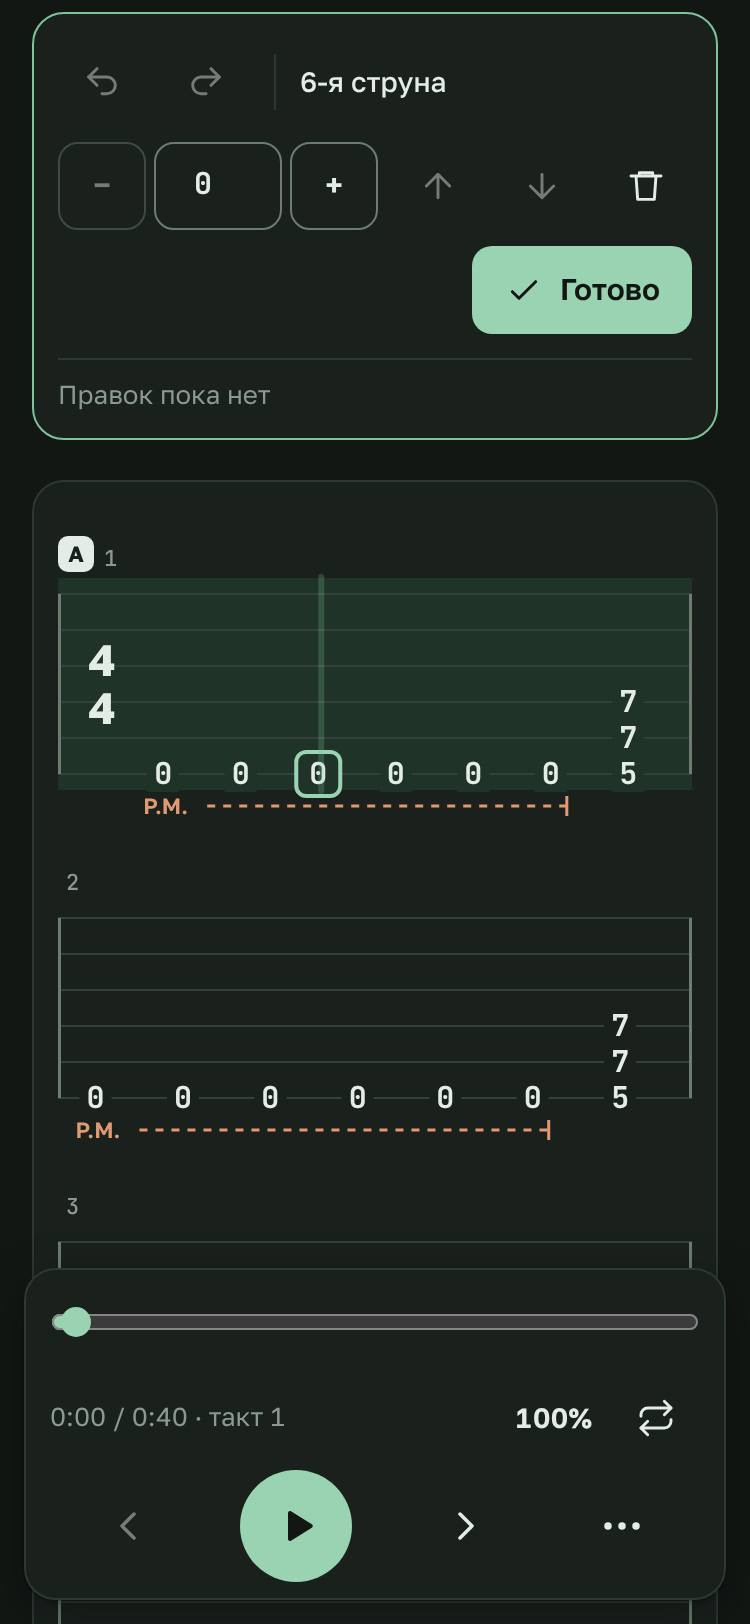
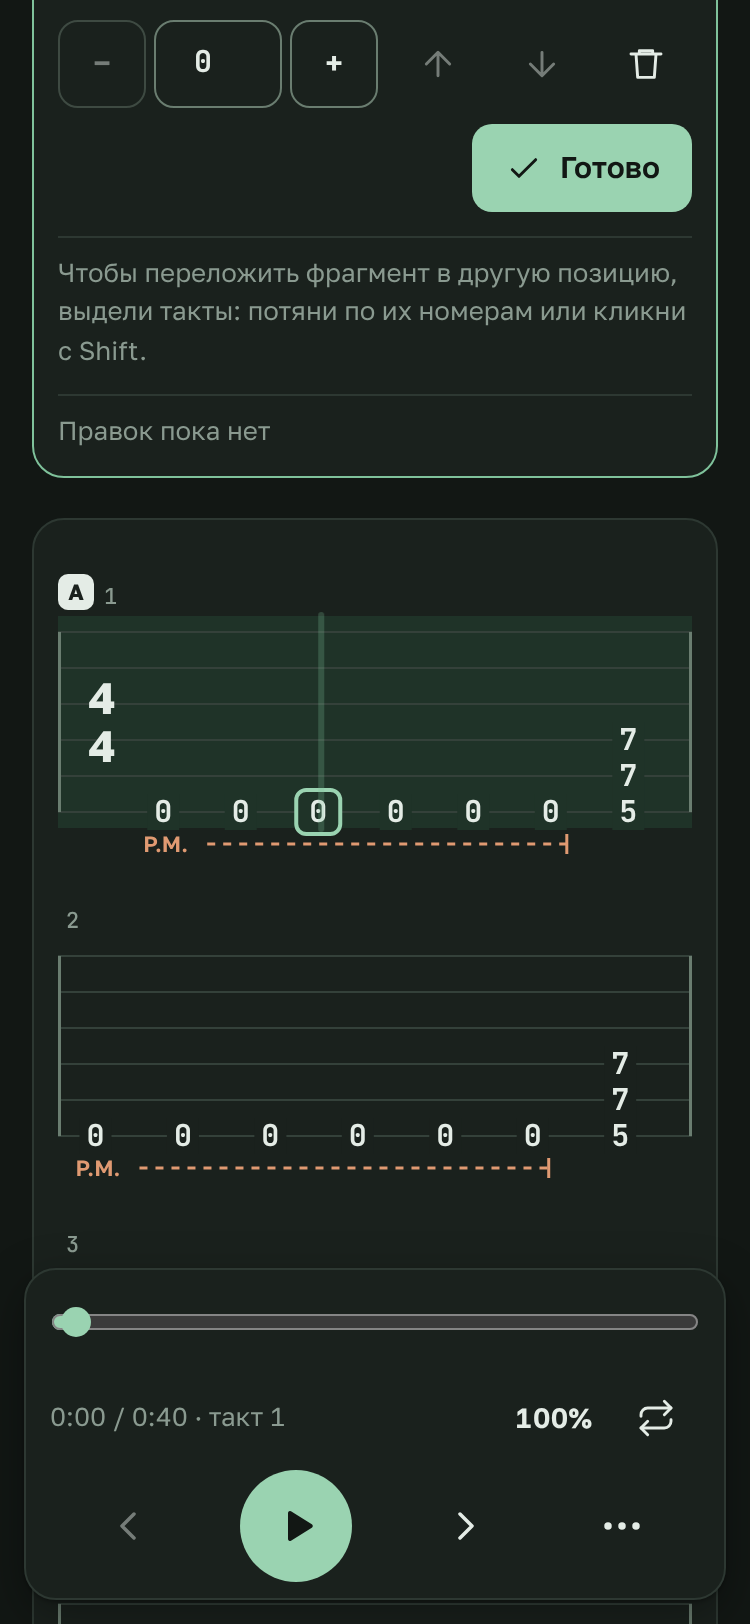
Editor: re-finger selected bars to a position; open-strings setting
- Edit toolbar: with bars selected (drag over bar numbers or
  Shift+click — now also in edit mode), «Такты N–M: переложить в
  позицию [5] Переложить» sends the bars' notes to /refinger and
  commits the result as one edit (autosaved, undoable with Ctrl+Z)
- Settings: «Открытые струны: Когда удобнее / Играть в позиции» with an
  explanation (A as 5-x-7-6-5 vs x-0-2-2-2-0); types.ts openStrings,
  client.refingerEvents
- Test: select a bar, re-finger to 7, autosave, undo; README

Claude-Session: https://claude.ai/code/session_01VXTWEvXddPh27pwJsDT9Na

diff --git a/frontend/src/components/EditToolbar.tsx b/frontend/src/components/EditToolbar.tsx
@@ -23,6 +23,10 @@ interface Props {
   onDelete: () => void;
   onRevert: () => void;
   onDone: () => void;
+  /** Bars selected on the sheet (drag over bar numbers / Shift+click), 1-based label like "80–81". */
+  selectionLabel: string | null;
+  onRefinger: (position: number) => void;
+  refingering: boolean;
 }
 
 /** Number of the string as guitarists count: 1 = the thinnest (highest). */
@@ -61,6 +65,8 @@ export default function EditToolbar(props: Props) {
   const { note } = props;
   const fretId = useId();
   const [confirmRevert, setConfirmRevert] = useState(false);
+  const [position, setPosition] = useState(5);
+  const positionId = useId();
 
   return (
     <div role="toolbar" aria-label="Правка табулатуры" className="grid gap-3 rounded-lg border border-accent bg-surface p-3 sm:p-4">
@@ -121,6 +127,47 @@ export default function EditToolbar(props: Props) {
             Готово
           </Button>
         </span>
+      </div>
+
+      <div className="flex flex-wrap items-center gap-2 border-t border-line pt-2">
+        {props.selectionLabel ? (
+          <>
+            <span className="text-sm font-medium">
+              {props.selectionLabel.includes("–") ? "Такты" : "Такт"} {props.selectionLabel}: переложить в позицию
+            </span>
+            <div className="flex items-center gap-1">
+              <Button variant="secondary" className="w-11 px-0" aria-label="Позиция ниже" onClick={() => setPosition((p) => Math.max(1, p - 1))} disabled={position <= 1}>
+                −
+              </Button>
+              <label htmlFor={positionId} className="sr-only">
+                Лад позиции
+              </label>
+              <input
+                id={positionId}
+                type="number"
+                inputMode="numeric"
+                min={1}
+                max={17}
+                value={position}
+                onChange={(e) => {
+                  const v = Number(e.target.value);
+                  if (Number.isInteger(v)) setPosition(Math.max(1, Math.min(17, v)));
+                }}
+                className="tabular min-h-11 w-16 rounded-md border border-line-strong bg-surface px-2 text-center font-mono text-[15px] font-bold text-fg"
+              />
+              <Button variant="secondary" className="w-11 px-0" aria-label="Позиция выше" onClick={() => setPosition((p) => Math.min(17, p + 1))} disabled={position >= 17}>
+                +
+              </Button>
+            </div>
+            <Button variant="secondary" loading={props.refingering} onClick={() => props.onRefinger(position)}>
+              Переложить
+            </Button>
+          </>
+        ) : (
+          <span className="text-[13px] text-muted">
+            Чтобы переложить фрагмент в другую позицию, выдели такты: потяни по их номерам или кликни с Shift.
+          </span>
+        )}
       </div>
 
       <div className="flex flex-wrap items-center justify-between gap-2 border-t border-line pt-2">

diff --git a/frontend/src/components/ResultScreen.tsx b/frontend/src/components/ResultScreen.tsx
@@ -7,6 +7,7 @@ import { tuningLetters, presetFor } from "../lib/tuning";
 import { resolveEditKey, typeDigit } from "../lib/editKeys";
 import { addNote, deleteNote, editContext, getNote, moveString, neighbourNote, setFret, shiftFret, type NoteRef } from "../lib/tabEdit";
 import { useTabEditor } from "../lib/useTabEditor";
+import { errorMessage, refingerEvents } from "../api/client";
 import EditToolbar from "./EditToolbar";
 import PlayerBar from "./PlayerBar";
 import ShortcutsDialog from "./ShortcutsDialog";
@@ -101,6 +102,32 @@ export default function ResultScreen({ result, onReset }: Props) {
         selectNote(added.ref);
       }
     },
+  };
+
+  // "Переложить в позицию": re-finger the selected bars on the server and
+  // commit the result as one undoable edit.
+  const [refingering, setRefingering] = useState(false);
+  const [refingerError, setRefingerError] = useState<string | null>(null);
+  const refingerSelection = async (position: number) => {
+    if (!selection) return;
+    const start = spans[selection.start].start - 0.03;
+    const end = spans[selection.end].end - 0.03;
+    const indices = track.events.map((e, i) => (e.time >= start && e.time < end ? i : -1)).filter((i) => i >= 0);
+    if (!indices.length) return;
+    setRefingering(true);
+    setRefingerError(null);
+    try {
+      const moved = await refingerEvents(result.job.id, indices.map((i) => track.events[i]), position, "avoid");
+      const events = track.events.slice();
+      indices.forEach((index, k) => {
+        events[index] = moved[k];
+      });
+      commitTrack({ ...track, events }, null);
+    } catch (e) {
+      setRefingerError(errorMessage(e, "Не получилось переложить такты"));
+    } finally {
+      setRefingering(false);
+    }
   };
 
   useEffect(() => {
@@ -288,7 +315,15 @@ export default function ResultScreen({ result, onReset }: Props) {
             setEditing(false);
             setSelected(null);
           }}
+          selectionLabel={loopLabel}
+          onRefinger={(position) => void refingerSelection(position)}
+          refingering={refingering}
         />
+      )}
+      {editing && refingerError && (
+        <p role="alert" className="text-[14px] text-danger">
+          {refingerError}
+        </p>
       )}
 
       {noteCount === 0 && !editing ? (

diff --git a/frontend/src/components/SettingsPanel.tsx b/frontend/src/components/SettingsPanel.tsx
@@ -20,7 +20,7 @@ function settingsSummary(settings: TabSettings): string {
   const tuning = preset ? preset.label : tuningLetters(settings.tuning);
   const capo = settings.capo > 0 ? `капо ${settings.capo}` : "без капо";
   const span = `растяжка до ${settings.maxFretSpan} ${plural(settings.maxFretSpan, ["лада", "ладов", "ладов"])}`;
-  return `${tuning} · ${capo} · ${span}`;
+  return `${tuning} · ${capo} · ${span}${settings.openStrings === "avoid" ? " · в позиции" : ""}`;
 }
 
 export default function SettingsPanel({ settings, onChange, onValidityChange, defaultOpen = false }: Props) {
@@ -165,6 +165,24 @@ export default function SettingsPanel({ settings, onChange, onValidityChange, de
               аккорда может пропасть. Больше — ближе к записи, но тяжелее играть.
             </p>
           </div>
+
+          <fieldset className="grid gap-2">
+            <legend className="mb-2 text-sm font-medium">Открытые струны</legend>
+            <Segmented
+              label="Открытые струны"
+              value={settings.openStrings ?? "auto"}
+              onChange={(openStrings) => onChange({ ...settings, openStrings })}
+              options={[
+                { value: "auto", label: "Когда удобнее" },
+                { value: "avoid", label: "Играть в позиции" },
+              ]}
+            />
+            <p className="text-[13px] text-muted">
+              Одни и те же ноты часто можно взять и с открытыми струнами, и выше по грифу — на слух разница почти не
+              слышна. «В позиции» подойдёт, если в песне аккорды берутся выше по грифу или с большим пальцем сверху (как у
+              Хендрикса): тогда, например, ля мажор выйдет как 5-x-7-6-5, а не x-0-2-2-2-0.
+            </p>
+          </fieldset>
 
           <div className="grid gap-2">
             <label htmlFor={ids.jump} className="flex items-baseline justify-between gap-3 text-sm font-medium">

diff --git a/frontend/src/App.test.tsx b/frontend/src/App.test.tsx
@@ -400,6 +400,35 @@ describe("editing the tab", () => {
     expect(puts).toHaveLength(1);
   });
 
+  it("re-fingers the selected bars into a chosen position as one undoable edit", async () => {
+    const { puts, fetchMock } = serve();
+    // The server answers the re-finger request with the notes moved.
+    const base = fetchMock.getMockImplementation()!;
+    fetchMock.mockImplementation(async (input: RequestInfo | URL, init?: RequestInit) => {
+      if (String(input).endsWith("/refinger")) {
+        const body = JSON.parse(String(init!.body));
+        expect(body.position).toBe(7);
+        expect(body.openStrings).toBe("avoid");
+        return json({ events: body.events.map((e: { notes: { string: number }[] }) => ({ ...e, notes: [{ string: 2, fret: 7 }] })) });
+      }
+      return base(input, init);
+    });
+    await openEditor();
+
+    expect(screen.getByText(/выдели такты/)).toBeInTheDocument();
+    fireEvent.click(document.querySelector('[data-bar="0"]')!, { shiftKey: true });
+    expect(await screen.findByText(/Такт 1: переложить в позицию/)).toBeInTheDocument();
+    fireEvent.change(screen.getByRole("spinbutton", { name: "Лад позиции" }), { target: { value: "7" } });
+    fireEvent.click(screen.getByRole("button", { name: "Переложить" }));
+
+    await waitFor(() => expect(puts).toHaveLength(1), { timeout: 2000 });
+    expect(puts[0].tracks[0].events[0].notes).toEqual([{ string: 2, fret: 7 }]);
+
+    fireEvent.keyDown(window, { code: "KeyZ", key: "z", ctrlKey: true });
+    await waitFor(() => expect(puts).toHaveLength(2), { timeout: 2000 });
+    expect(puts[1].tracks[0].events[0].notes).toEqual([{ string: 0, fret: 3 }]);
+  });
+
   it("reverts all edits after an inline confirmation", async () => {
     const { puts, fetchMock } = serve();
     await openEditor();

diff --git a/frontend/src/api/client.ts b/frontend/src/api/client.ts
@@ -1,4 +1,4 @@
-import type { JobResult, JobStatus, JobSummary, TabSettings, TabTrack } from "../types";
+import type { JobResult, JobStatus, JobSummary, TabEvent, TabSettings, TabTrack } from "../types";
 
 const BASE = "/api";
 
@@ -135,6 +135,22 @@ export async function saveTab(jobId: string, baseRevision: number, tracks: TabTr
     headers: { "Content-Type": "application/json" },
     body: JSON.stringify({ baseRevision, tracks }),
   });
+}
+
+/** Re-finger notes (same pitches, new strings/frets) around a position.
+ * Nothing is saved — the caller commits the result as an ordinary edit. */
+export async function refingerEvents(
+  jobId: string,
+  events: TabEvent[],
+  position: number | null,
+  openStrings: "auto" | "avoid" = "avoid",
+): Promise<TabEvent[]> {
+  const res = await request<{ events: TabEvent[] }>(`${BASE}/jobs/${jobId}/refinger`, {
+    method: "POST",
+    headers: { "Content-Type": "application/json" },
+    body: JSON.stringify({ events, position, openStrings }),
+  });
+  return res.events;
 }
 
 /** Throw away every manual edit and go back to the pipeline's output. */

diff --git a/frontend/src/types.ts b/frontend/src/types.ts
@@ -25,6 +25,7 @@ export interface TabSettings {
   capo: number;
   maxFretSpan: number; // playability strictness: comfortable hand stretch in frets
   positionJumpWeight: number; // how strongly to penalize jumping up/down the neck
+  openStrings: "auto" | "avoid"; // "avoid": play in position (e.g. thumb-over chords) rather than open shapes
 }
 
 export const DEFAULT_SETTINGS: TabSettings = {
@@ -32,6 +33,7 @@ export const DEFAULT_SETTINGS: TabSettings = {
   capo: 0,
   maxFretSpan: 4,
   positionJumpWeight: 1.0,
+  openStrings: "auto",
 };
 
 export interface TabNote {

diff --git a/frontend/src/components/TabSheet.tsx b/frontend/src/components/TabSheet.tsx
@@ -454,7 +454,7 @@ export default function TabSheet({
   );
   const onBarClick = useCallback(
     (rowIndex: number, bar: number, e: React.MouseEvent<SVGRectElement>) => {
-      if (editing) {
+      if (editing && !e.shiftKey) {
         // Add a note where the click landed: nearest string line, and either
         // the note column under the pointer or the nearest sixteenth.
         const svg = e.currentTarget.ownerSVGElement;

diff --git a/README.md b/README.md
@@ -24,6 +24,9 @@ The resulting tab plays back in the browser with a cursor synced to the audio, a
 - The job lives in the URL (`?job=…`), so a reload brings you back to the same progress screen or result
 - **Job history** on the start screen: previous transcriptions (with their edits) survive server restarts and open in one click; finished jobs expire after `FRETWISE_JOB_TTL_HOURS`
 - **Fix notes in the browser**: change fret or string, delete or add notes, undo/redo (Ctrl+Z / Ctrl+Shift+Z); edits are saved on the server and every export includes them
+- **Re-finger a passage**: select bars and move them to a hand position (e.g. an A-major run to 7th position) — same notes, new strings and frets, undoable like any edit
+- Fingering style setting: open strings when easier, or play in position (e.g. thumb-over chords: A as 5-x-7-6-5 instead of x-0-2-2-2-0)
+- Notes transcribed from separation bleed while the guitar is silent are filtered out
 - **Export** to Guitar Pro (`.gp5`, via PyGuitarPro), plain-text ASCII tab (`.txt`) and Standard MIDI (`.mid`), all on the same bar grid
 - One-command **Docker Compose** setup
 
@@ -61,6 +64,7 @@ More in [`docs/screenshots/`](docs/screenshots). They are generated from the pro
 | `GET` | `/api/jobs/{id}/export.mid` | Standard MIDI File |
 | `PUT` | `/api/jobs/{id}/tab` | Save edited tracks (`baseRevision` + `tracks`); 409 if edited elsewhere |
 | `DELETE` | `/api/jobs/{id}/edits` | Revert to the tab as transcribed |
+| `POST` | `/api/jobs/{id}/refinger` | Re-finger given notes around a position (returns events, saves nothing) |
 | `DELETE` | `/api/jobs/{id}` | Delete a finished job and its files |
 
 ## Tech stack
